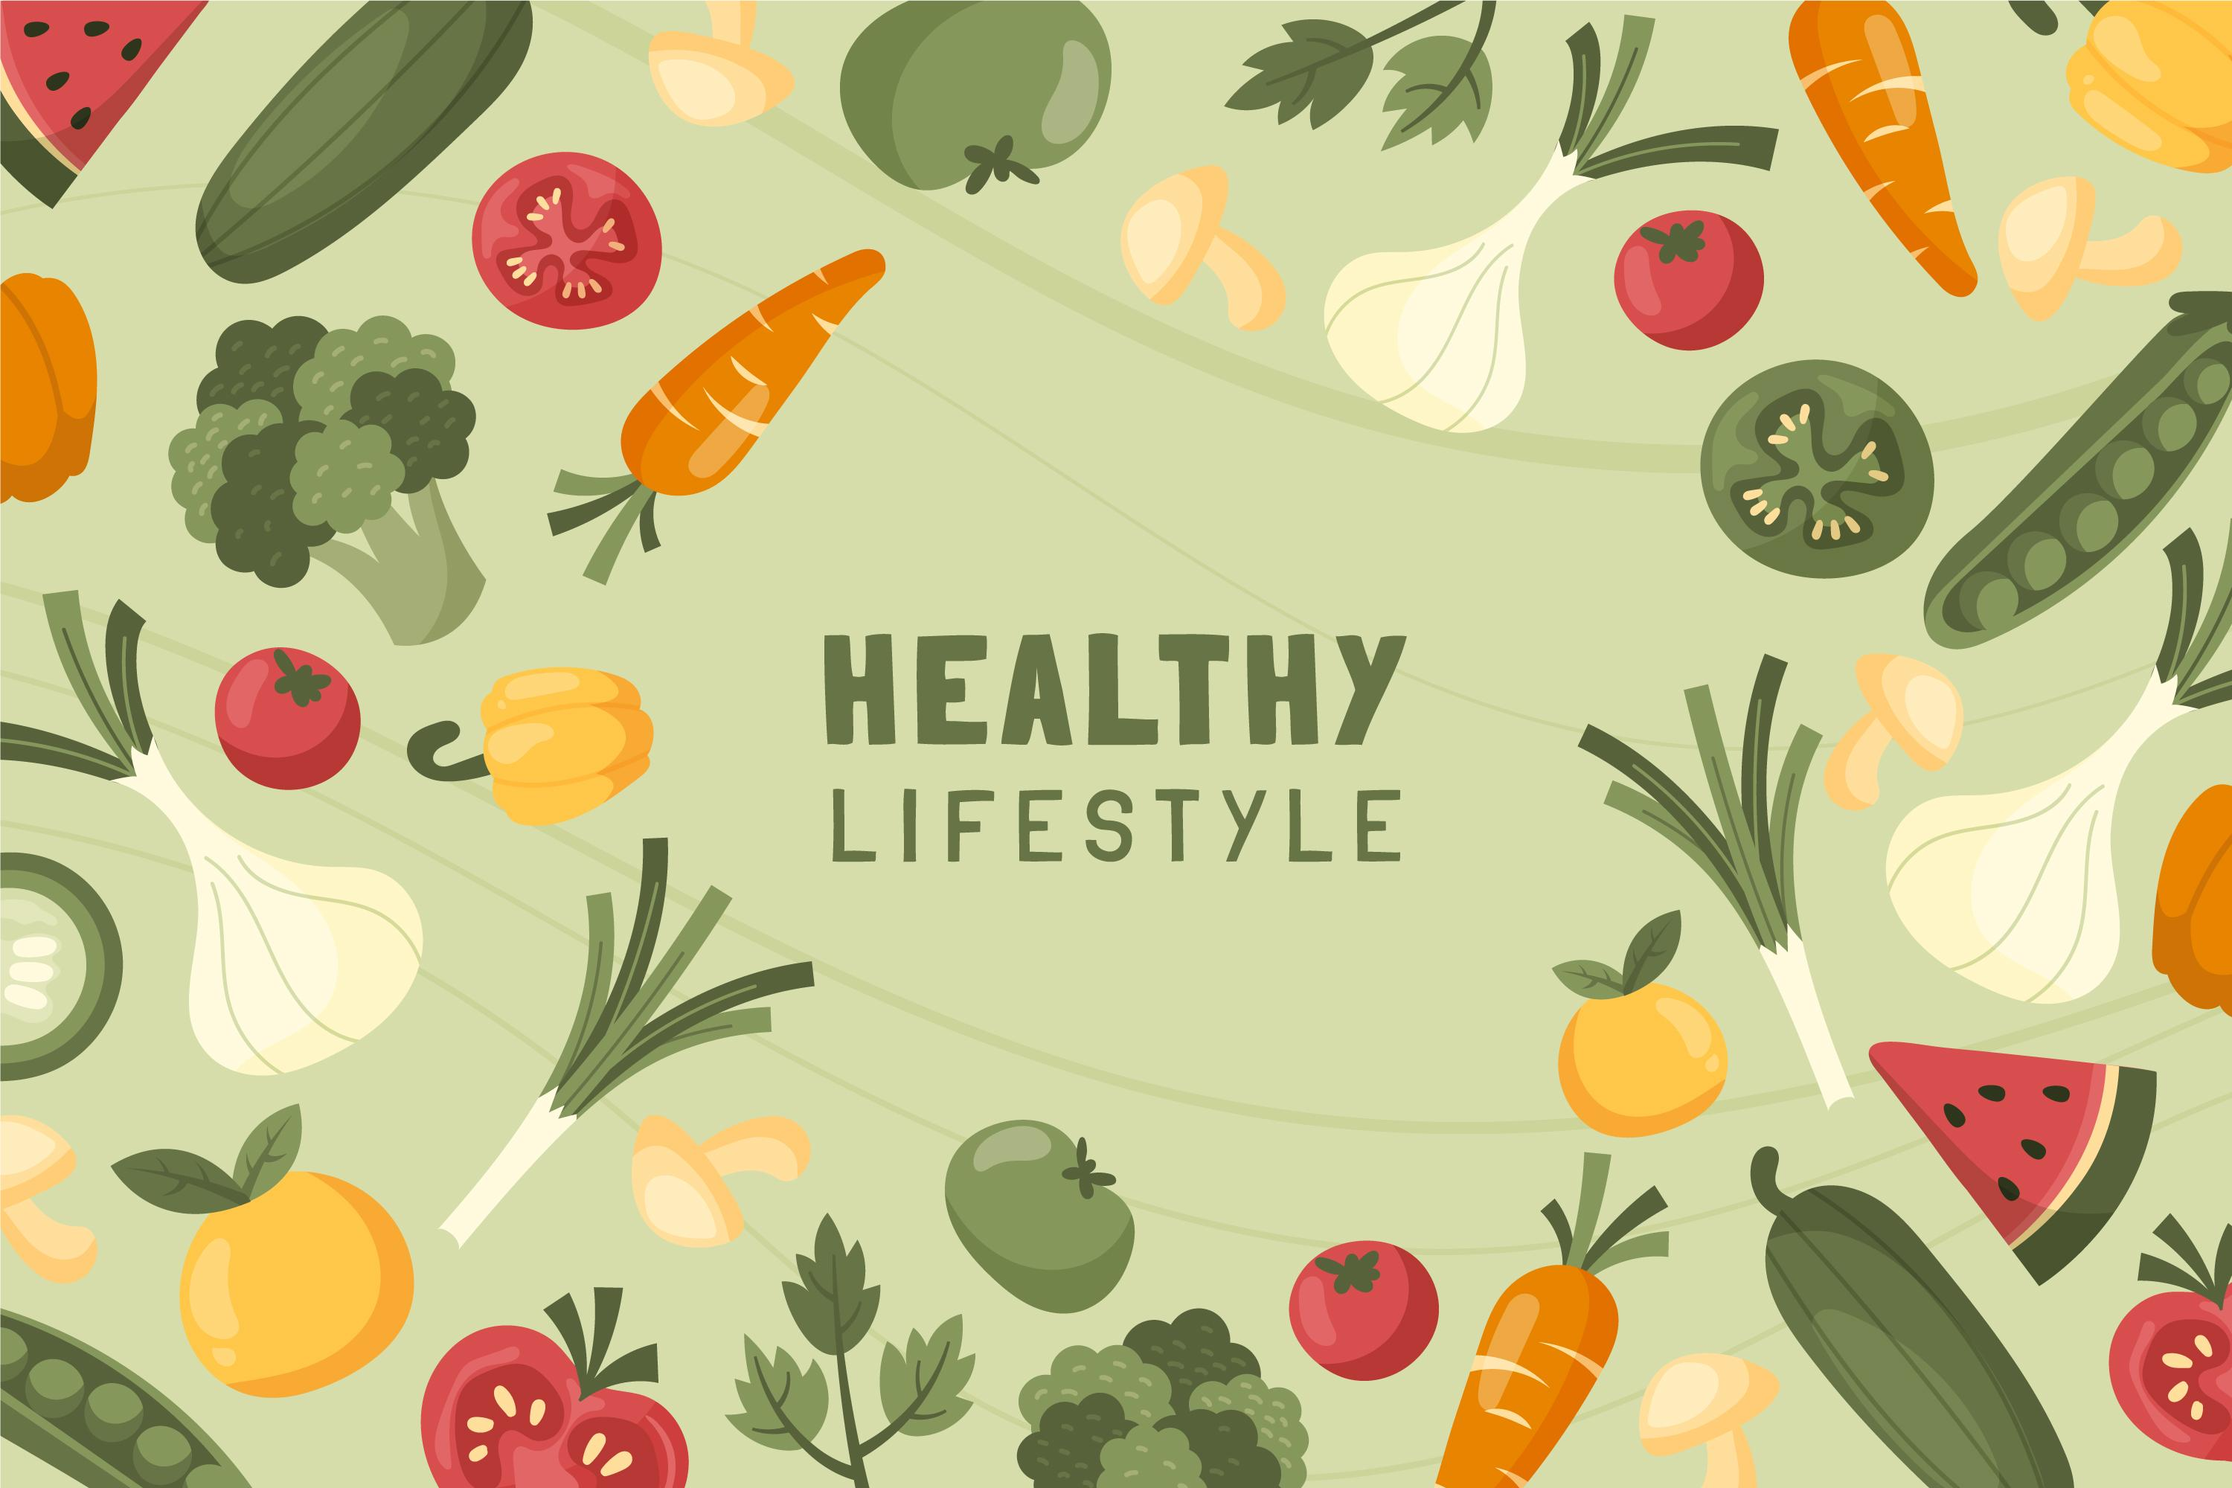
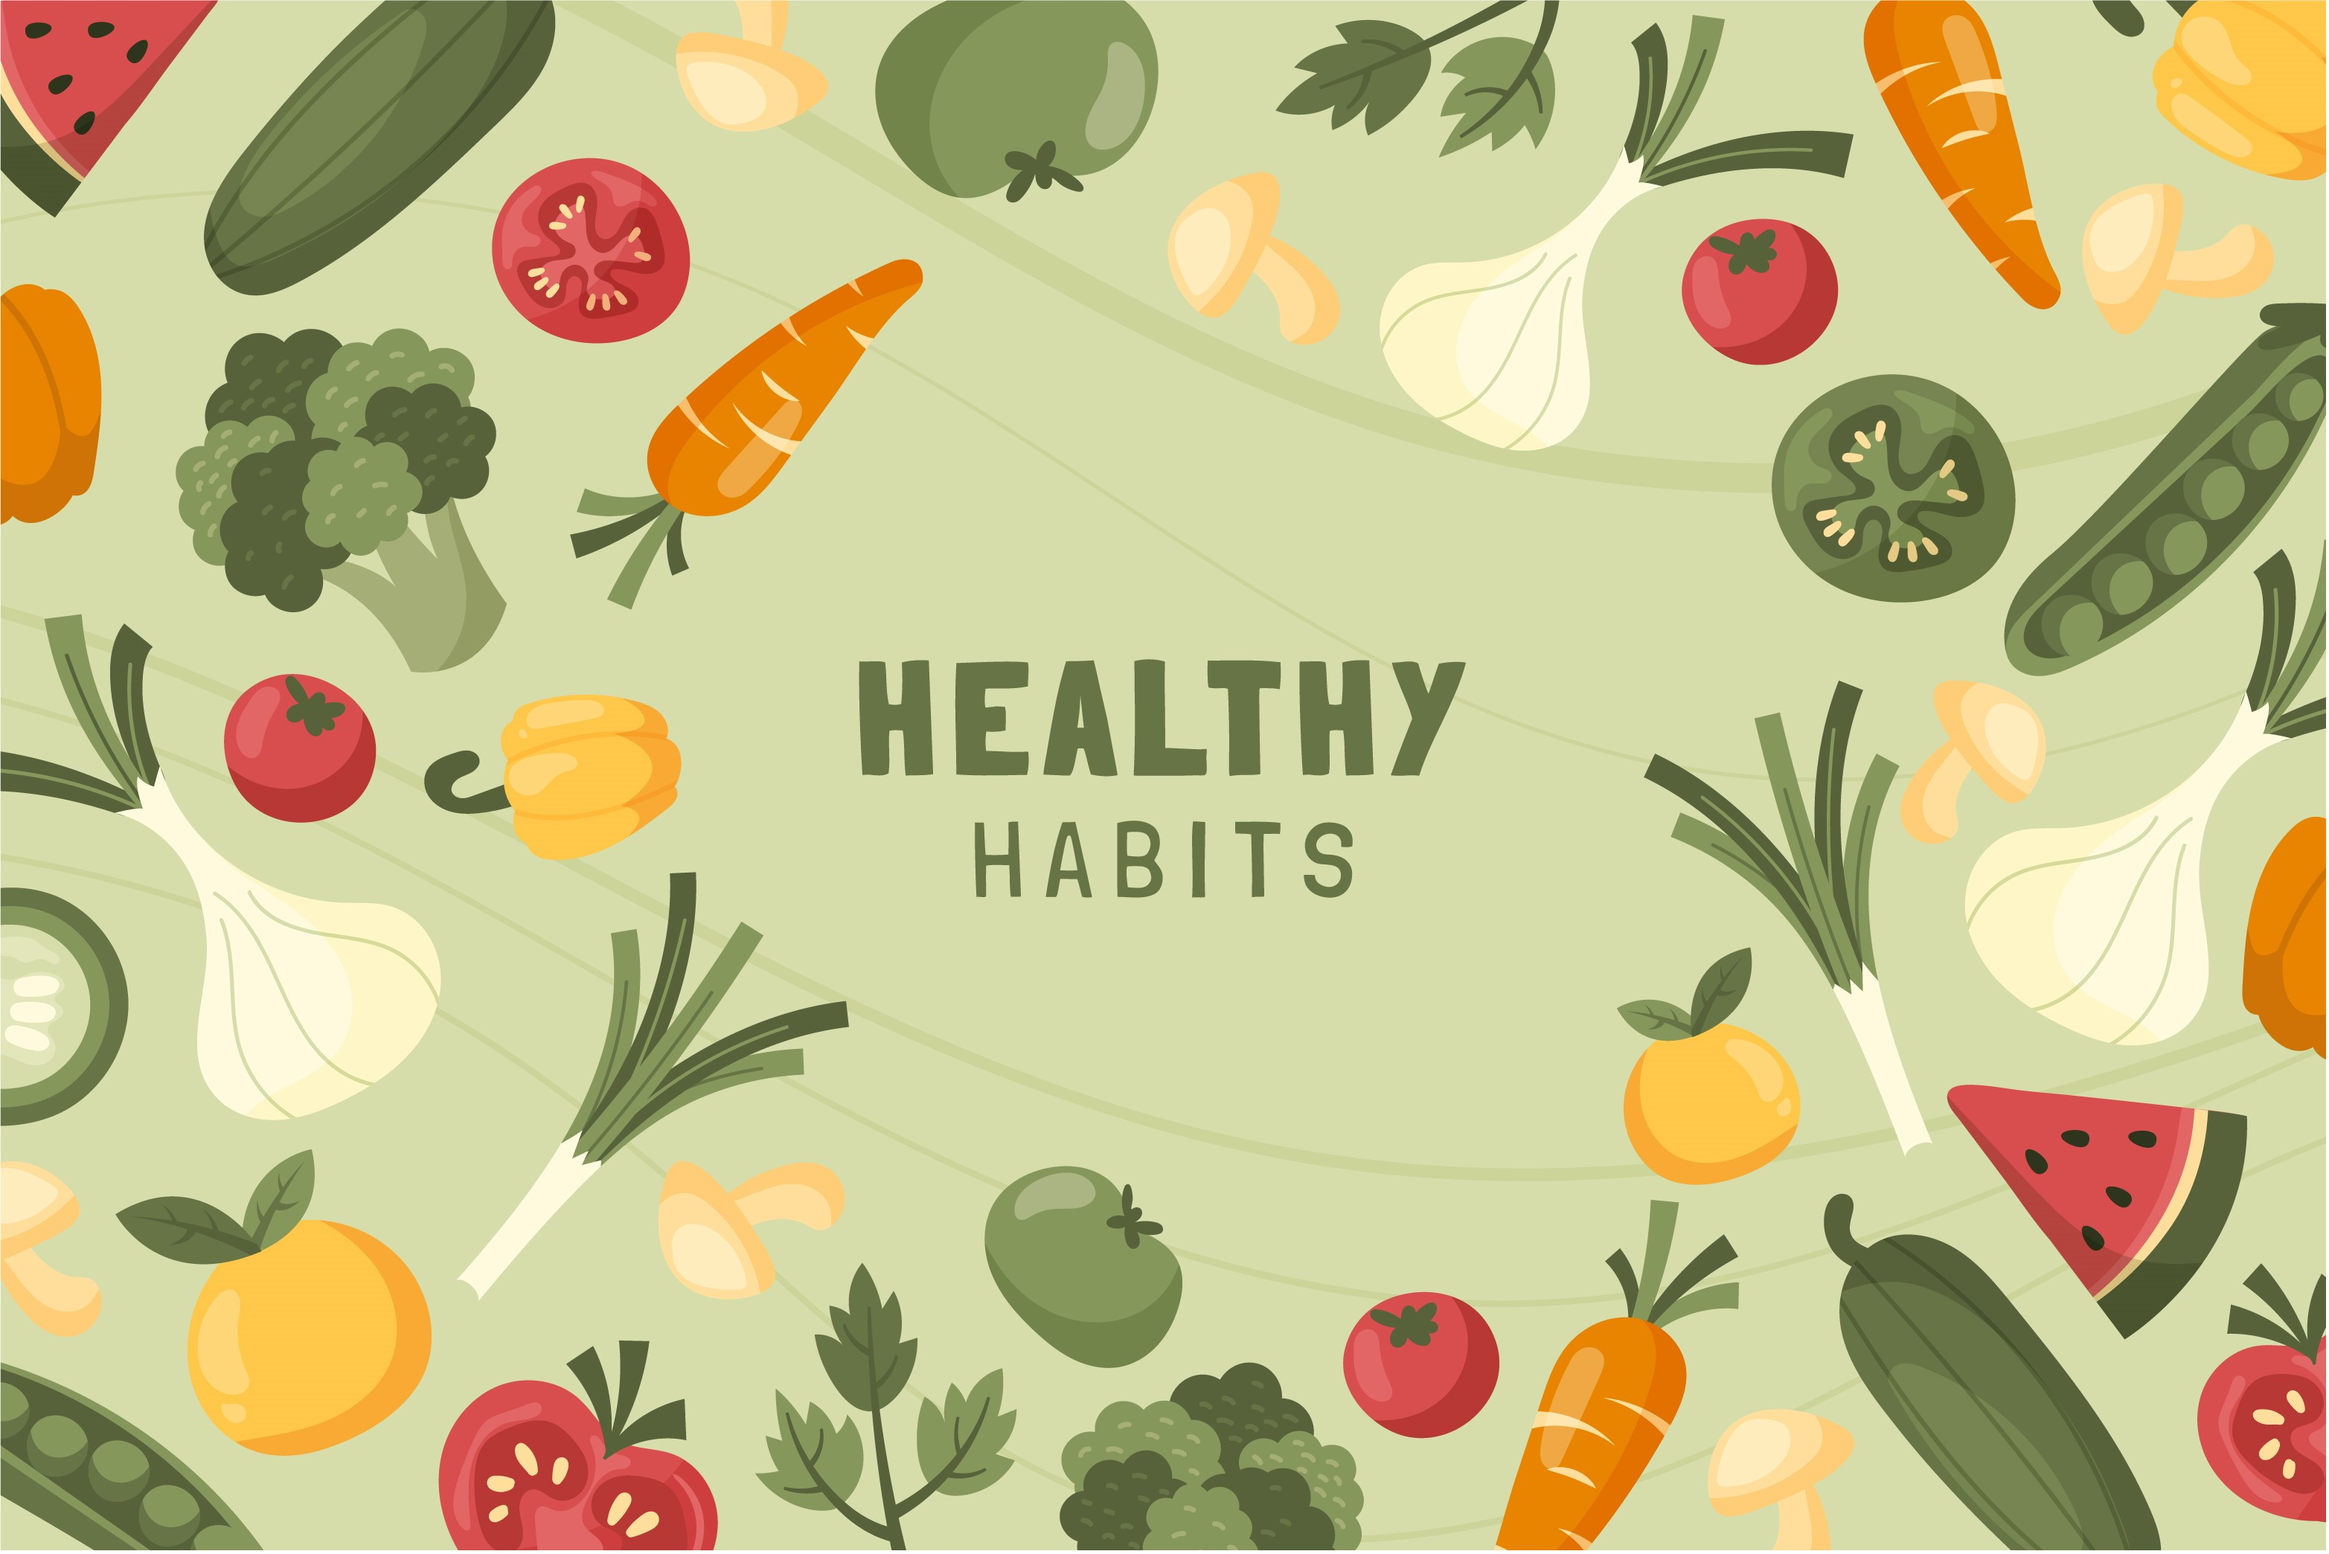
Add files via upload

diff --git a/calorie.html b/calorie.html
@@ -1,0 +1,79 @@
+<!DOCTYPE html>
+<html lang="en">
+
+<head>
+    <meta charset="UTF-8">
+    <meta name="viewport" content="width=device-width, initial-scale=1.0">
+    <title>Calorie Calculator App</title>
+
+    <!-- Bootstrap CSS -->
+    <link rel="stylesheet" href="https://cdn.jsdelivr.net/npm/bootstrap@4.6.2/dist/css/bootstrap.min.css">
+
+    <!-- Style CSS -->
+    <link rel="stylesheet" href="./style.css">
+</head>
+
+<body>
+
+    <div class="main">
+        <div class="header">
+            <div class="logo">
+                <a href="index.html"> Healthy Habits </a>
+            </div>
+
+            <nav>
+                <a href="home.html" target="_blank">
+                    <img src="home.png" alt="Home page">
+                  </a>
+                  <a href="bmi.html" target="_blank">
+                    <img src="bmi.png" alt="bmi calculator">
+                  </a>
+                  <a href="recom.html" target="_blank">
+                    <img src="slim.png" alt="recommendation page">
+                  </a>
+                  
+            </nav>
+        </div>
+        <div class="calculator-container">
+
+
+            <form style="width: 400px;">
+
+                <div class="form-group">
+                    <label for="gender">Gender:</label>
+                    <select id="gender" class="form-control">
+                        <option>-select-</option>
+                        <option value="male">Male</option>
+                        <option value="female">Female</option>
+                    </select>
+                </div>
+
+                <div class="form-group">
+                    <label for="age">Age:</label>
+                    <input type="text" class="form-control" id="age">
+                </div>
+
+                <div class="form-group">
+                    <label for="height">Height(cms):</label>
+                    <input type="text" class="form-control" id="height">
+                </div>
+
+                <div class="form-group">
+                    <label for="weight">Weight(kgs):</label>
+                    <input type="text" class="form-control" id="weight">
+                </div>
+
+                <button type="button" class="btn btn-primary form-control"
+                    onclick="calculateCalories()">Calculate</button>
+
+            </form>
+
+            <div id="result"></div>
+        </div>
+
+    </div>
+
+    <script src="./script.js"></script>
+</body>
+
+</html>

diff --git a/index.html b/index.html
@@ -11,6 +11,7 @@
 
     <!-- Style CSS -->
     <link rel="stylesheet" href="./style.css">
+
 </head>
 
 <body>
@@ -22,58 +23,19 @@
             </div>
 
             <nav>
-                <a href="home.html" target="_blank">
+                <a href="index.html" target="_blank">
                     <img src="home.png" alt="Home page">
-                  </a>
-                  <a href="bmi.html" target="_blank">
-                    <img src="bmi.png" alt="bmi calculator">
-                  </a>
-                  <a href="recom.html" target="_blank">
-                    <img src="slim.png" alt="recommendation page">
-                  </a>
-                  
+                </a>
             </nav>
+            
         </div>
-        <div class="calculator-container">
+        
+        <div class="button-container">
+            <button onclick="location.href='Calorie.html'">Calorie calculator</button>
 
-
-            <form style="width: 400px;">
-
-                <div class="form-group">
-                    <label for="gender">Gender:</label>
-                    <select id="gender" class="form-control">
-                        <option>-select-</option>
-                        <option value="male">Male</option>
-                        <option value="female">Female</option>
-                    </select>
-                </div>
-
-                <div class="form-group">
-                    <label for="age">Age:</label>
-                    <input type="text" class="form-control" id="age">
-                </div>
-
-                <div class="form-group">
-                    <label for="height">Height(cms):</label>
-                    <input type="text" class="form-control" id="height">
-                </div>
-
-                <div class="form-group">
-                    <label for="weight">Weight(kgs):</label>
-                    <input type="text" class="form-control" id="weight">
-                </div>
-
-                <button type="button" class="btn btn-primary form-control"
-                    onclick="calculateCalories()">Calculate</button>
-
-            </form>
-
-            <div id="result"></div>
-        </div>
-
+            <button onclick="location.href='bmi.html'">bmi calculator</button>
+            
+            <button onclick="location.href='recom.html'">reccomendation</button>
+          </div>
+        
     </div>
-
-    <script src="./script.js"></script>
-</body>
-
-</html>

diff --git a/style.css b/style.css
@@ -8,9 +8,9 @@
 }
 
 body {
-    background-image: url(bg.jpg);
+    background-image: url(bg1.jpg);
     background-repeat: no-repeat;
-    background-attachment: flex;
+    background-attachment:inherit;
 }
 
 .header {
@@ -85,7 +85,8 @@ nav a{
     position: relative;
     top: 300px;
     background-color: #f0f0f0;
-    padding: 20px;
+    padding: 60px;
+    background-color: #000000b7;
     border: 1px solid #ddd;
     border-radius: 10px;
     flex-direction: column;
